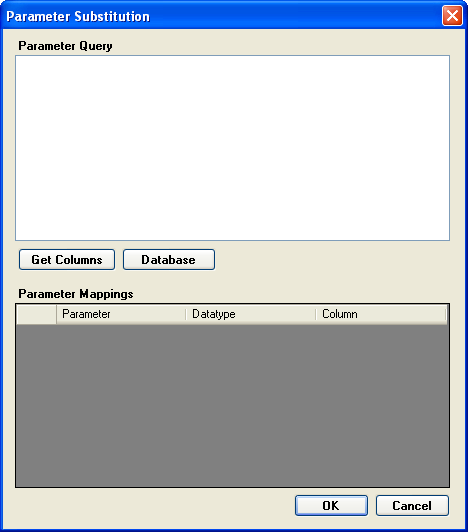
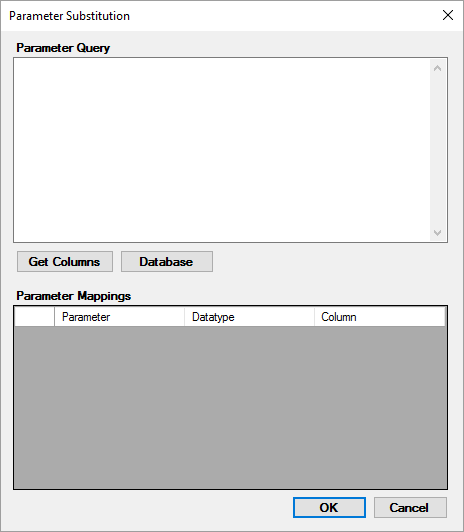
Update images and add proper SQL editor to Param window Fixes #35

diff --git a/src/SQLQueryStress/ParamWindow.Designer.cs b/src/SQLQueryStress/ParamWindow.Designer.cs
@@ -32,13 +32,14 @@ namespace SQLQueryStress
             this.Column = new System.Windows.Forms.DataGridViewTextBoxColumn();
             this.Datatype = new System.Windows.Forms.DataGridViewTextBoxColumn();
             this.Parameter = new System.Windows.Forms.DataGridViewTextBoxColumn();
-            this.paramQueryTextBox = new System.Windows.Forms.TextBox();
             this.label1 = new System.Windows.Forms.Label();
             this.getColumnsButton = new System.Windows.Forms.Button();
             this.okButton = new System.Windows.Forms.Button();
             this.cancelButton = new System.Windows.Forms.Button();
             this.label2 = new System.Windows.Forms.Label();
             this.database_button = new System.Windows.Forms.Button();
+            this.elementHost1 = new System.Windows.Forms.Integration.ElementHost();
+            this.sqlControl1 = new SQLQueryStress.SqlControl();
             ((System.ComponentModel.ISupportInitialize)(this.columnMapGrid)).BeginInit();
             this.SuspendLayout();
             // 
@@ -74,18 +75,6 @@ namespace SQLQueryStress
             this.Parameter.HeaderText = "Column";
             this.Parameter.Name = "Parameter";
             this.Parameter.Width = 130;
-            // 
-            // paramQueryTextBox
-            // 
-            this.paramQueryTextBox.AcceptsReturn = true;
-            this.paramQueryTextBox.AcceptsTab = true;
-            this.paramQueryTextBox.AllowDrop = true;
-            this.paramQueryTextBox.Location = new System.Drawing.Point(12, 26);
-            this.paramQueryTextBox.Multiline = true;
-            this.paramQueryTextBox.Name = "paramQueryTextBox";
-            this.paramQueryTextBox.ScrollBars = System.Windows.Forms.ScrollBars.Both;
-            this.paramQueryTextBox.Size = new System.Drawing.Size(435, 186);
-            this.paramQueryTextBox.TabIndex = 1;
             // 
             // label1
             // 
@@ -152,6 +141,15 @@ namespace SQLQueryStress
             this.database_button.UseVisualStyleBackColor = true;
             this.database_button.Click += new System.EventHandler(this.database_button_Click);
             // 
+            // elementHost1
+            // 
+            this.elementHost1.Location = new System.Drawing.Point(15, 36);
+            this.elementHost1.Name = "elementHost1";
+            this.elementHost1.Size = new System.Drawing.Size(432, 177);
+            this.elementHost1.TabIndex = 8;
+            this.elementHost1.Text = "elementHost1";
+            this.elementHost1.Child = this.sqlControl1;
+            // 
             // ParamWindow
             // 
             this.AcceptButton = this.okButton;
@@ -159,13 +157,13 @@ namespace SQLQueryStress
             this.AutoScaleMode = System.Windows.Forms.AutoScaleMode.Font;
             this.CancelButton = this.cancelButton;
             this.ClientSize = new System.Drawing.Size(462, 500);
+            this.Controls.Add(this.elementHost1);
             this.Controls.Add(this.database_button);
             this.Controls.Add(this.label2);
             this.Controls.Add(this.cancelButton);
             this.Controls.Add(this.okButton);
             this.Controls.Add(this.getColumnsButton);
             this.Controls.Add(this.label1);
-            this.Controls.Add(this.paramQueryTextBox);
             this.Controls.Add(this.columnMapGrid);
             this.FormBorderStyle = System.Windows.Forms.FormBorderStyle.FixedDialog;
             this.MaximizeBox = false;
@@ -181,8 +179,6 @@ namespace SQLQueryStress
         }
 
         #endregion
-
-        private System.Windows.Forms.TextBox paramQueryTextBox;
         private System.Windows.Forms.Label label1;
         private System.Windows.Forms.Button getColumnsButton;
         private System.Windows.Forms.Button okButton;
@@ -193,5 +189,7 @@ namespace SQLQueryStress
         private System.Windows.Forms.DataGridViewTextBoxColumn Column;
         private System.Windows.Forms.DataGridViewTextBoxColumn Datatype;
         private System.Windows.Forms.DataGridViewTextBoxColumn Parameter;
+        private System.Windows.Forms.Integration.ElementHost elementHost1;
+        private SqlControl sqlControl1;
     }
 }

diff --git a/src/SQLQueryStress/ParamWindow.cs b/src/SQLQueryStress/ParamWindow.cs
@@ -34,7 +34,11 @@ namespace SQLQueryStress
 
             _outerQuery = outerQuery;
 
-            paramQueryTextBox.Text = (string) settings.ParamQuery.Clone();
+            var sqlControl = elementHost1.Child as SqlControl;
+            if (sqlControl != null)
+            {
+                sqlControl.Text = (string)settings.ParamQuery.Clone();
+            }
 
             columnMapGrid.Columns[0].SortMode = DataGridViewColumnSortMode.NotSortable;
             columnMapGrid.Columns[1].SortMode = DataGridViewColumnSortMode.NotSortable;
@@ -43,7 +47,7 @@ namespace SQLQueryStress
             //TODO: Which event to handle?!?!
             columnMapGrid.CellEndEdit += columnMapGrid_CellValueChanged;
 
-            if ((outerQuery.Length > 0) && (paramQueryTextBox.Text.Length > 0))
+            if ((outerQuery.Length > 0) && (sqlControl.Text.Length > 0))
             {
                 getColumnsButton_Click("constructor", null);
             }
@@ -99,9 +103,13 @@ namespace SQLQueryStress
             {
                 try
                 {
-                    var comm = new SqlCommand(paramQueryTextBox.Text, conn);
-                    conn.Open();
-                    reader = comm.ExecuteReader(CommandBehavior.SchemaOnly);
+                    var sqlControl = elementHost1.Child as SqlControl;
+                    if (sqlControl != null)
+                    {
+                        var comm = new SqlCommand(sqlControl.Text, conn);
+                        conn.Open();
+                        reader = comm.ExecuteReader(CommandBehavior.SchemaOnly);
+                    }
                 }
                 catch (Exception ex)
                 {
@@ -184,7 +192,11 @@ namespace SQLQueryStress
 
         private void okButton_Click(object sender, EventArgs e)
         {
-            _settings.ParamQuery = paramQueryTextBox.Text;
+            var sqlControl = elementHost1.Child as SqlControl;
+            if (sqlControl != null)
+            {
+                _settings.ParamQuery = sqlControl.Text;
+            }
 
             var localParamMappings = new Dictionary<string, string>();
             foreach (DataGridViewRow row in columnMapGrid.Rows)
